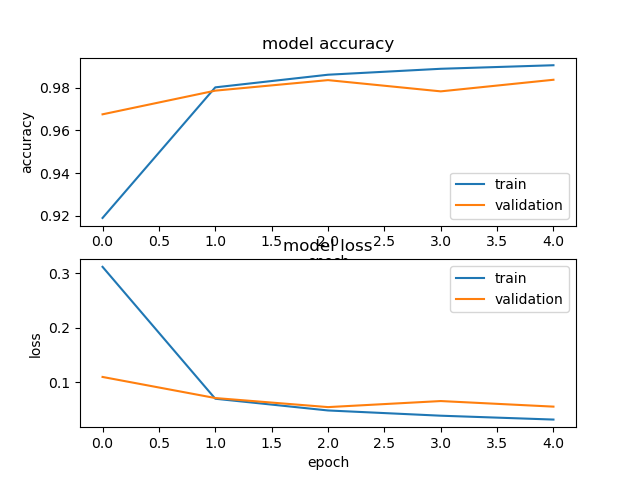
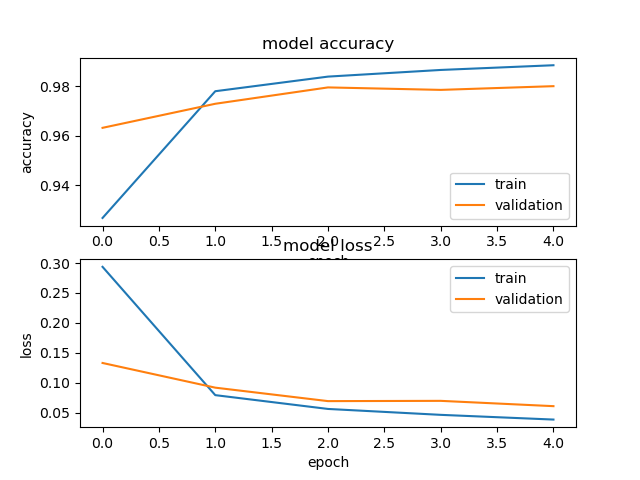
modelTrain

diff --git a/modelTrain/main.py b/modelTrain/main.py
@@ -7,13 +7,12 @@
 '''
 import numpy as np
 import pandas as pd
+import matplotlib.pyplot as plt
 
-from keras.models import Sequential
+from keras.models import Sequential, load_model
 from keras.layers import Conv2D,MaxPool2D,Flatten,Dense, BatchNormalization
 from keras.datasets import mnist
 from keras.utils import to_categorical
-
-import matplotlib.pyplot as plt
 
 import os
 os.environ['KMP_DUPLICATE_LIB_OK']='True'
@@ -53,8 +52,8 @@ def draw_train_history(history):
 
     # summarize history for accuracy
     plt.subplot(211)
-    plt.plot(history.history['accuracy'])
-    plt.plot(history.history['val_accuracy'])
+    plt.plot(history.history['acc'])
+    plt.plot(history.history['val_acc'])
     plt.title('model accuracy')
     plt.ylabel('accuracy')
     plt.xlabel('epoch')
@@ -85,4 +84,8 @@ if __name__ == '__main__':
     draw_train_history(history)
 
     loss, accuracy = model.evaluate(x_test, y_test)
+    print("test loss: {}, test accuracy: {}".format(loss, accuracy))
+
+    new_model = load_model('model.h5')
+    loss, accuracy = new_model.evaluate(x_test, y_test)
     print("test loss: {}, test accuracy: {}".format(loss, accuracy))
